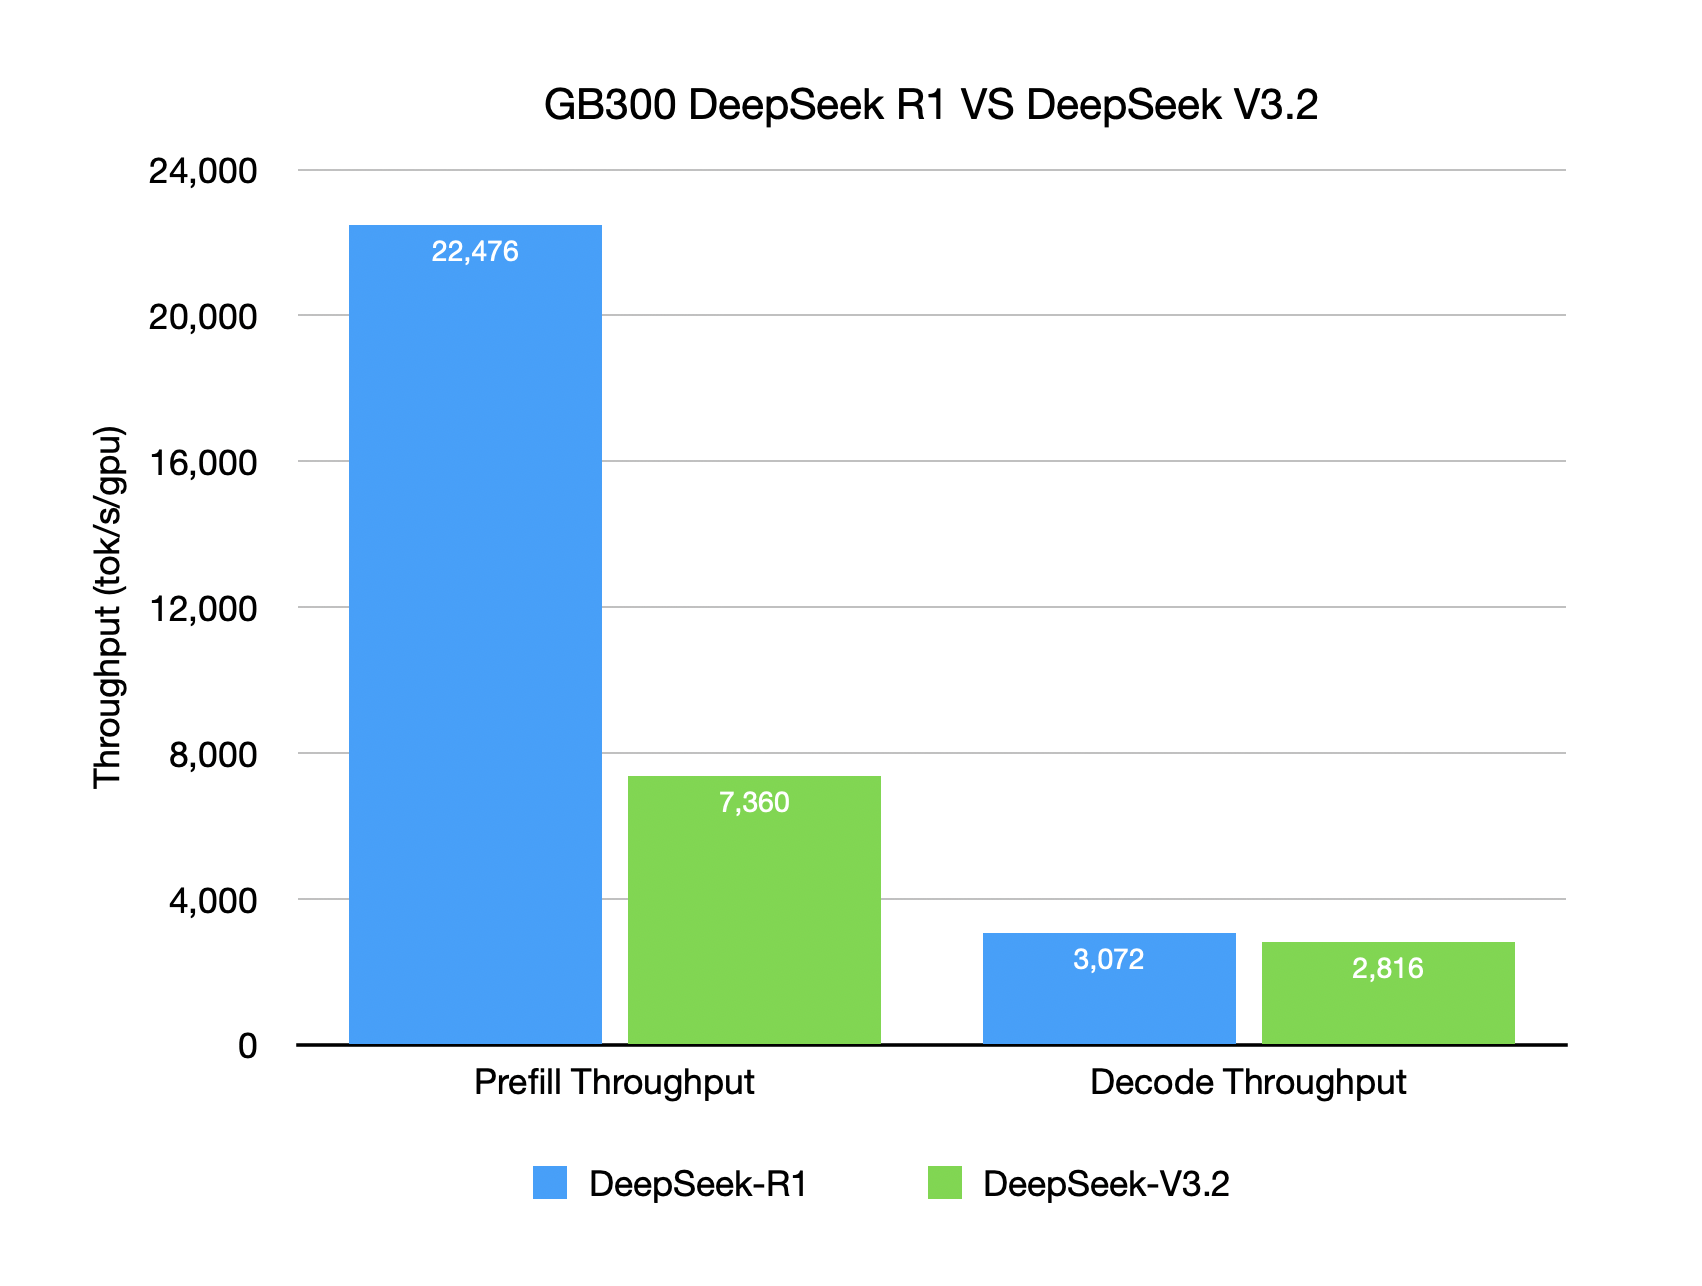
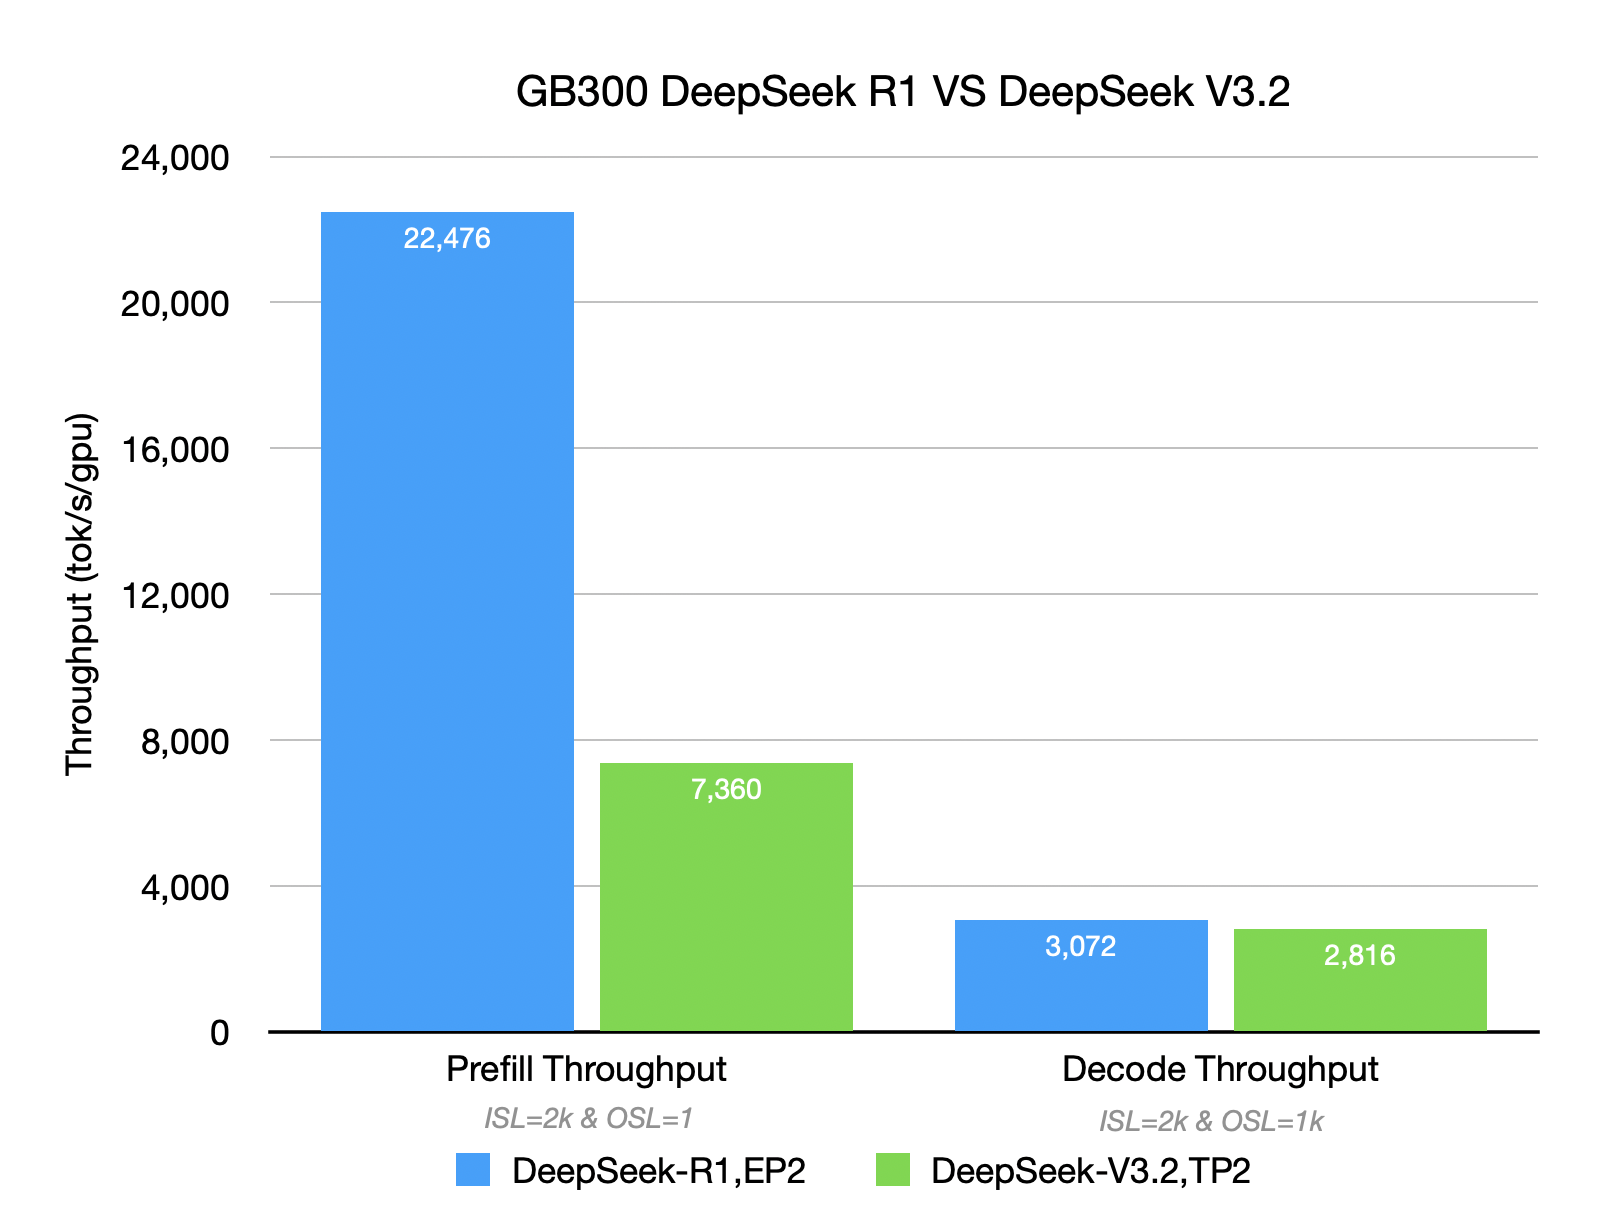
reorganize fp8 vs fp4 explanation add bench describe & fix deepseek r1 image

diff --git a/_posts/2026-02-06-gb300-deepseek.md b/_posts/2026-02-06-gb300-deepseek.md
@@ -7,13 +7,13 @@ image: /assets/logos/vllm-logo-text-light.png
 
 # Summary
 
-**DeepSeek-V3.2** has been successfully and smoothly run on **GB300** (SM103 - Blackwell Ultra). Leveraging FP4 quantization, it achieves a single-GPU throughput of <span style="color: #2ecc71; font-weight: 600;">7360 TGS</span> (Tokens per GPU per Second) in a prefill-only scenario. In a mixed-context scenario _(ISL=2k,OSL=1K)_ (P+D), the output throughput per GPU is **2816 TGS**.
+**DeepSeek-V3.2** (NVFP4 + TP2)has been successfully and smoothly run on **GB300** (SM103 - Blackwell Ultra). Leveraging FP4 quantization, it achieves a single-GPU throughput of <span style="color: #2ecc71; font-weight: 600;">7360 TGS</span> (tokens / GPU / second) in a prefill-only scenario. In a mixed-context scenario _(ISL=2k,OSL=1k)_, the output throughput is **2816 TGS**.
 
 However, compared to DeepSeek-R1, DeepSeek-V3.2 in vLLM still has significant room for improvement in inference performance.
 
-Meanwhile, with 2x GB300 GPUs (EP=2), **DeepSeek-R1** (FP4) can achieve a prefill throughput of <span style="color: #2ecc71; font-weight: 600;">22476 TGS</span> per GPU _(ISL=2K, batch=256)_, and reach **3072 TGS** per GPU in a mixed-context scenario _(ISL=2k,OSL=1K)_.
+Meanwhile, with 2x GB300 GPUs, **DeepSeek-R1** (NVFP4 + EP2) can achieve a throughput of <span style="color: #2ecc71; font-weight: 600;">22476 TGS</span> _(ISL=2K,OSL=1,batch=256)_ in a prefill-only scenario, and reach **3072 TGS** in a mixed-context scenario _(ISL=2k,OSL=1k)_.
 
-Compared to the **Hopper** series, the **B300** series demonstrates an <span style="color: #2ecc71; font-weight: 600;">8x</span> performance improvement in Prefill, and <span style="color: #2ecc71; font-weight: 600;">10-20x</span> improvement in P/D mixed scenarios.
+Compared to the **Hopper** series, the **B300** series demonstrates an <span style="color: #2ecc71; font-weight: 600;">8x</span> performance improvement in Prefill, and <span style="color: #2ecc71; font-weight: 600;">10-20x</span> improvement in mixed-context scenarios.
 
 > [!NOTE]
 > All performance benchmarks presented in this blog are conducted using **vLLM v0.14.1**.  
@@ -22,6 +22,30 @@ Compared to the **Hopper** series, the **B300** series demonstrates an <span sty
 >
 > - **vLLM**: v0.14.1
 > - **CUDA**: 13.0
+
+# Benchmark Setup
+
+Below is an example command used to generate these benchmarks:
+
+```bash
+vllm bench serve --model nvidia/DeepSeek-R1-0528-NVFP4 \
+  --seed $RANDOM \
+  --dataset-name random \
+  --base-url http://${PROXY_NODE_IP}:8000 \
+  --tokenizer /mnt/models/DeepSeek-V3.2 \
+  --num-prompts 1000 \
+  --max-concurrency $MAX_CONCURRENCY \
+  --random-input-len $ISL \
+  --random-output-len $OSL \
+  --ignore-eos
+```
+
+Metrics reported by `vllm bench serve` are used in all figures:
+
+- Prefill Throughput
+  > Total token throughput (tok/s)
+- Decode Throughput
+  > Output token throughput (tok/s)
 
 # Basic Recipe with FP4 Weight Quantization
 
@@ -42,7 +66,7 @@ export VLLM_USE_FLASHINFER_MOE_FP4=1
 
 ### 3. Serve the Model
 
-GB300/B300 single-GPU memory is 288GB. Two GPUs are sufficient to hold the NVFP4 format weights of the DeepSeek series models.
+The GB300/B300 single-GPU memory is 288GB. Two GPUs are sufficient to hold the NVFP4 format weights of the DeepSeek series models.
 
 ```bash
 vllm serve nvidia/DeepSeek-V3.2-NVFP4    -tp 2
@@ -52,7 +76,7 @@ vllm serve nvidia/DeepSeek-R1-0528-NVFP4 -tp 2
 
 ### 4. Optimized Configurations
 
-Below are reference values for the max boundary batch to achieve better prefill throughput for TP=2, using the additional parameter `--max-num-batched-tokens`:
+Below are reference values for the max boundary batch to achieve better prefill throughput for TP2, using the additional parameter `--max-num-batched-tokens`:
 
 ```bash
 # DeepSeek-R1-0528-NVFP4
@@ -66,17 +90,17 @@ Below are reference values for the max boundary batch to achieve better prefill 
 
 ## FP8 vs. FP4 (for DeepSeek V3.2)
 
-Compared to FP8, FP4 weights yield a **14%** improvement in prefill-only scenarios, and **2x** output throughput in mixed scenarios.
+While deploying **DeepSeek V3.2** on **GB300 (B300)**, we observed a notable performance characteristic: **NVFP4 quantization delivers significant performance gains, achieving superior overall performance even while using only half the hardware resources(GPU count) of standard configurations**. However, the experimental results also clearly show that low precision alone is insufficient to fully unlock performance potential, and the choice of parallelization strategy is equally critical.
 
-In Prefill, the major time occupations are attention/Indexer/KV cache writes, etc. FP4 primarily optimizes the weight read bandwidth and GEMM for MoE/MLP, thus the overall improvement is limited.
+The data highlights a clear advantage for **NVFP4 with TP2**. In prefill-only scenarios _(ISL=2k, OSL=1, batch=64)_, TP2 delivers a 1.8× improvement over FP8 and achieves up to 7360 TGS total throughput. In mixed-context scenarios _(ISL=2k, OSL=1k)_, the output throughput increases to **2816 TGS** (an **8×** gain). In contrast, the TP4 configuration shows more modest gains—only **14%** in prefill and a **2×** improvement in mixed-context scenarios, making the TP2 results significantly more efficient.
 
-However, in P/D mixed scenarios _(ISL=2k, OSL=1K)_: The proportion of time spent on MoE GEMM and weight loading increases, making the system more susceptible to weight bandwidth and memory bottlenecks. Here, FP4 can significantly reduce weight traffic and trigger the dedicated FlashInfer FP4 MoE operator path, leading to greater throughput gains.
+These gains are driven by two factors: **reduced memory overhead and simplified compute logic**. NVFP4 substantially eases memory bandwidth pressure, which is critical for increasing output token throughput. Additionally, simplified computations within the attention layers directly optimize end-to-end latency during the prefill phase.
 
-Furthermore, FP4 frees up more KV-Cache space, allowing for larger batch concurrency (Under FP8, KV cache occupancy often reaches 100%, causing request queuing; under FP4, the same requests occupy only ~ **25%**, greatly relieving memory pressure).
+**Why do we recommend the NVFP4 + TP2 combination?**
 
-FP4 allows the model to run on only 2 GPUs with `-tp=2`, and achieve up to **14720 (7360 per GPU)** total prefill throughput _(ISL=2k, OSL=1, batch=64)_ and **5632 (2816 per GPU)** total throughput for P+D mixing _(ISL=2k, OSL=1K, batch=512)_. Compared to FP8 with `-tp=4`, this configuration achieves ~ **1.8×** higher prefill-only throughput and ~ **8×** higher total throughput in P+D mixing.
+The results show that weight quantization is only part of the equation; another performance driver lies in **the balance between parallelism and per-GPU workload**. FP4 significantly reduces the model and KV cache footprint, lowering bandwidth pressure and enabling larger batch sizes.
 
-**FP4 with TP2 clearly emerges as our recommended configuration** because lower precision alone isn’t enough. FP4 significantly reduces the model and KV cache footprint — which lowers memory bandwidth pressure and allows larger cache capacity and higher compute utilization per GPU. In practice, TP2 strikes a better balance between parallelization and per-card workload size, enabling TensorCores to more fully exploit FP4’s higher FLOPs and bandwidth efficiency, while TP4’s finer partitioning dilutes that advantage.
+Under a TP2 configuration, the workload per GPU remains sufficiently large to allow Tensor Cores to fully exploit FP4’s higher Tensor Core FLOPs and bandwidth efficiency. Conversely, the finer-grained partitioning of TP4 dilutes the workload per GPU, preventing the system from fully capturing the efficiency gains provided by NVFP4.
 
 <p align="center">
   <img src="/assets/figures/2026-02-06-deepseek/dsv32-fp4-vs-fp8-throughput.png" width="100%">
@@ -88,10 +112,10 @@ FP4 allows the model to run on only 2 GPUs with `-tp=2`, and achieve up to **147
 
 ## Blackwell Ultra vs. Hopper (for DeepSeek R1)
 
-The chart below shows the per-GPU total throughput comparison, under the same requests and vLLM setup, for GB300 (NVL72), B300 (HGX), and last gen H200:
+The chart below shows the per-GPU total throughput comparison, under the same requests and vLLM setup, for GB300 (NVL72), B300 (HGX), and last-gen H200:
 
-- In prefill-only _(ISL=2K)_ scenarios, GB300's per-GPU throughput is **14%** higher than B300, and **8x** higher compared to H200.
-- In P/D mixed scenarios _(ISL=2k,OSL=1K)_, GB300's per-GPU throughput is **12%** higher than B300, and **20x** higher than H200.
+- In prefill-only _(ISL=2k)_ scenarios, GB300's per-GPU throughput is **14%** higher than B300, and **8x** higher compared to H200.
+- In short output mixed-context scenarios _(ISL=2k,OSL=128)_, GB300's per-GPU throughput is **12%** higher than B300, and **20x** higher than H200.
 
 <p align="center">
   <img src="/assets/figures/2026-02-06-deepseek/dsr1-h200-b300-gb300-throughput.png" width="100%">
@@ -103,20 +127,20 @@ Its 288GB memory is also 2x that of H200, with memory bandwidth nearly doubled. 
 
 > Reference: [Inside NVIDIA Blackwell Ultra](https://developer.nvidia.com/blog/inside-nvidia-blackwell-ultra-the-chip-powering-the-ai-factory-era/)
 
-GB300 also shows minor improvements over B300 even in small-scale intra-node configurations with TP=2.
+GB300 also shows minor improvements over B300 even in small-scale intra-node configurations with `TP2`.
 
 # Deployment Tuning
 
 ## EP2 vs. TP2 Selection
 
-Given that DeepSeek-R1's weights can fit within the HBM of only two B300 GPUs, we explored whether it's better to scale via DP based on TP2 or based on EP2.
+Given that DeepSeek-R1's weights can fit within the HBM of only two B300 GPUs, we explored whether it's better to scale via DP based on `TP2` or based on `EP2`.
 
 > [!NOTE]
 > The CLI parameter to switch to EP2 is `-dp=2 --enable-expert-parallel`.
 
 **a. Prefill-Only Scenario _(ISL=2k, OSL=1)_**
 
-EP=2 _(blue curve)_ reaches a throughput ceiling of **22K TGS**, outperforming TP=2 _(green curve)_ in both throughput and the growth slope of TTFT. This benefits from EP's typical "large packet, low frequency" communication pattern, which better utilizes the high bandwidth of RDMA/NVLink under high concurrency.
+`EP2` _(blue curve)_ reaches a throughput ceiling of **22476 TGS**, outperforming `TP2` _(green curve)_ in both throughput and the growth slope of TTFT. This benefits from EP's typical "large packet, low frequency" communication pattern, which better utilizes the high bandwidth of RDMA/NVLink under high concurrency.
 
 However, the blue EP curve exhibits some fluctuations due to unbalanced expert routing, causing different batches to hit different expert distributions and resulting in variations in expert load and all-to-all communication volume.
 
@@ -130,7 +154,7 @@ However, the blue EP curve exhibits some fluctuations due to unbalanced expert r
   </picture>
 </div>
 
-**b. P/D Mixed Scenario _(large ISL, small OSL)_**
+**b. Short Output Mixed-Context Scenario _(ISL=2k,OSL=64)_**
 
 Under **TP = 2**, each decode step introduces **inter-GPU communication overhead**, which leads to a **50% to 2×** degradation in TPOT compared to **EP = 2**.
 
@@ -145,9 +169,9 @@ However, **TP also improves TTFT by ~ 50%**, accelerating the execution of each 
 ### Conclusions
 
 - For DeepSeek-R1 on GB300 in disaggregated prefill, EP is more suitable for prefiller (then simply increase the DP count for scaling). EP has a higher throughput ceiling in Prefill (peak ~10% - 15% higher than TP2), while TTFT growth with concurrency is more gradual, which is more beneficial for controlling queuing and tail latency.
-- In a P/D integrated deployment, the strategy depends on workload:
-  - When ISL is large and OSL is small, then the prefill phase becomes the dominant bottleneck, TP=2 is recommended, to prevent excessive attention-layer latency from crowding out GPU time in the decode phase.
-  - In contrast, for output-heavy case, the TPOT advantage of EP=2 becomes dominant, and it is therefore the preferred configuration.
+- In a P+D integrated deployment, the strategy depends on workload:
+  - When ISL is large and OSL is small, the prefill phase becomes the dominant bottleneck, `TP2` is recommended, to prevent excessive attention-layer latency from crowding out GPU time in the decode phase.
+  - In contrast, for output-heavy case, the TPOT advantage of `EP2` becomes dominant, and it is therefore the preferred configuration.
 
 ## Benefits of MTP
 
@@ -162,7 +186,7 @@ As argued below, the built-in draft model speculates 1 token at a time, balancin
 
 When the context length is not long, enabling MTP (blue) for DeepSeek R1-0528 on GB300 achieves higher throughput than disabling MTP (green) within a certain concurrency range (<=256) (acceptance rate can reach > 80%). However, throughput drops sharply when MTP is enabled under high concurrency.
 
-In scenarios with ISL=2048 and OSL=64, the decode proportion is extremely low. The overhead of MTP's multi-token prediction cannot be amortized, resulting in increased per-token compute, memory pressure, and scheduling complexity. At low concurrency, the overhead cannot be amortized; at high concurrency, it further squeezes prefill batching and system concurrency.
+In a mixed-context scenario _(ISL=2k,OSL=64)_, the decode proportion is extremely low. The overhead of MTP's multi-token prediction cannot be amortized, resulting in increased per-token compute, memory pressure, and scheduling complexity. At low concurrency, the overhead cannot be amortized; at high concurrency, it further squeezes prefill batching and system concurrency.
 
 Therefore, the overall throughput is lower than that achieved with MTP disabled at both low and high concurrency levels.
 
@@ -180,11 +204,11 @@ Therefore, the overall throughput is lower than that achieved with MTP disabled 
 
 As shown in the chart below, with the same GB300 setup, DeepSeek R1's Prefill throughput capability is ~ **3x** that of DeepSeek V3.2.
 
-- DeepSeek R1 in EP2 can reach a peak Prefill throughput of ~ **22k TGS**.
-- DeepSeek V3.2 in EP2 is relatively weaker, with a Prefill peak throughput of ~7.3k TGS per GPU.
+- DeepSeek R1 in EP2 can reach a peak Prefill throughput of ~ **22476 TGS**.
+- DeepSeek V3.2 in EP2 is relatively weaker, with a Prefill peak throughput of ~ 7360 TGS.
 - Regarding TTFT, with both models using TP2, R1 reduces latency by about 55% compared to V3.2.
 
-However, in the P+D mixed case, the gap between the two models in terms of Output Throughput and TPOT is not significant.
+However, a mixed-context scenario _(ISL=2k,OSL=1k)_, the gap between the two models in terms of Output Throughput and TPOT is not significant.
 
 <p align="center">
   <img src="/assets/figures/2026-02-06-deepseek/dsr1-vs-v32-throughput.png" width="100%">
@@ -232,7 +256,8 @@ python tests/v1/kv_connector/nixl_integration/toy_proxy_server.py \
   --port 8000 \
   --prefiller-hosts ${PREFILL_NODE_IP}   --prefiller-ports 8000 \
   --decoder-hosts ${DECODE_NODE_IP}      --decoder-ports   8000
-# If you have multiple Prefiller or Decoder:
+
+# If you have multiple Prefillers or Decoders:
 # just append to hosts list, like: `--prefiller-hosts ${IP1} ${IP2}  --prefiller-ports 8000 8000 `
 
 # vLLM bench against the proxy (using a random dataset and ISL=4k,OSL=1k)
@@ -249,7 +274,7 @@ vllm bench serve --model nvidia/DeepSeek-V3.2-NVFP4 \
 > **PD Disaggregation on vLLM v0.14.1**: To run PD disaggregation with vLLM v0.14.1, you need to manually apply the patch from [PR #32698](https://github.com/vllm-project/vllm/pull/32698).
 > However, this feature has been merged into the latest vLLM main branch, so if you're using a newer version, you may not need this patch.
 
-We use the Nixl KV Connector to facilitate KV transfer across processes/nodes. Both P and D roles use `TP=2` strategy.
+We use the Nixl KV Connector to facilitate KV transfer across processes/nodes. Both P and D roles use the `TP2` strategy.
 
 As concurrent load increases, the disagg setup shows throughput advantages over the integrated setup, with the gap widening, while maintaining lower latency (both TTFT and TPOT). The slope of latency increase is also more stable.
 
@@ -260,7 +285,7 @@ Regarding TPOT, both 1P1D and 3P1D outperform the non-disagg setup. At a batch s
   <img src="/assets/figures/2026-02-06-deepseek/dsv32-pd-disagg-tpot.png" style="width: 48%;">
 </div>
 
-When ISL continues to grow (from 2K to 8K), the throughput of the 1P1D setup begins to struggle, with Prefill becoming the bottleneck. Requests wait in queue at the P node, failing to release the Decoder's compute power. When adding 2 P replicas (3P1D), they parallelize the Prefill phase of more requests, achieving better total throughput.
+When ISL continues to grow (from 2K to 8K), the throughput of the 1P1D setup begins to struggle, with Prefill becoming the bottleneck. Requests wait in queue at the P node, unable to fully utilize the Decoder's compute power. When adding 2 P replicas (3P1D), they parallelize the Prefill phase of more requests, achieving better total throughput.
 
 Although the per-GPU throughput may not be the highest for disaggregation, better Goodput and SLO guarantees are achieved with more hardware investment.
 
@@ -274,6 +299,6 @@ Although the per-GPU throughput may not be the highest for disaggregation, bette
 
 We would like to give thanks to the many talented people in the vLLM community who worked together as a part of this effort:
 
-- Verda Team: for providing GB300 cluster and offering support.
+- Verda Team: for providing the GB300 cluster and offering support.
 - DaoCloud Team: Xingyan Jiang, Nicole Li, Peter Pan, Kebe Liu
 - InferAct Team: Jie Li, Kaichao You
